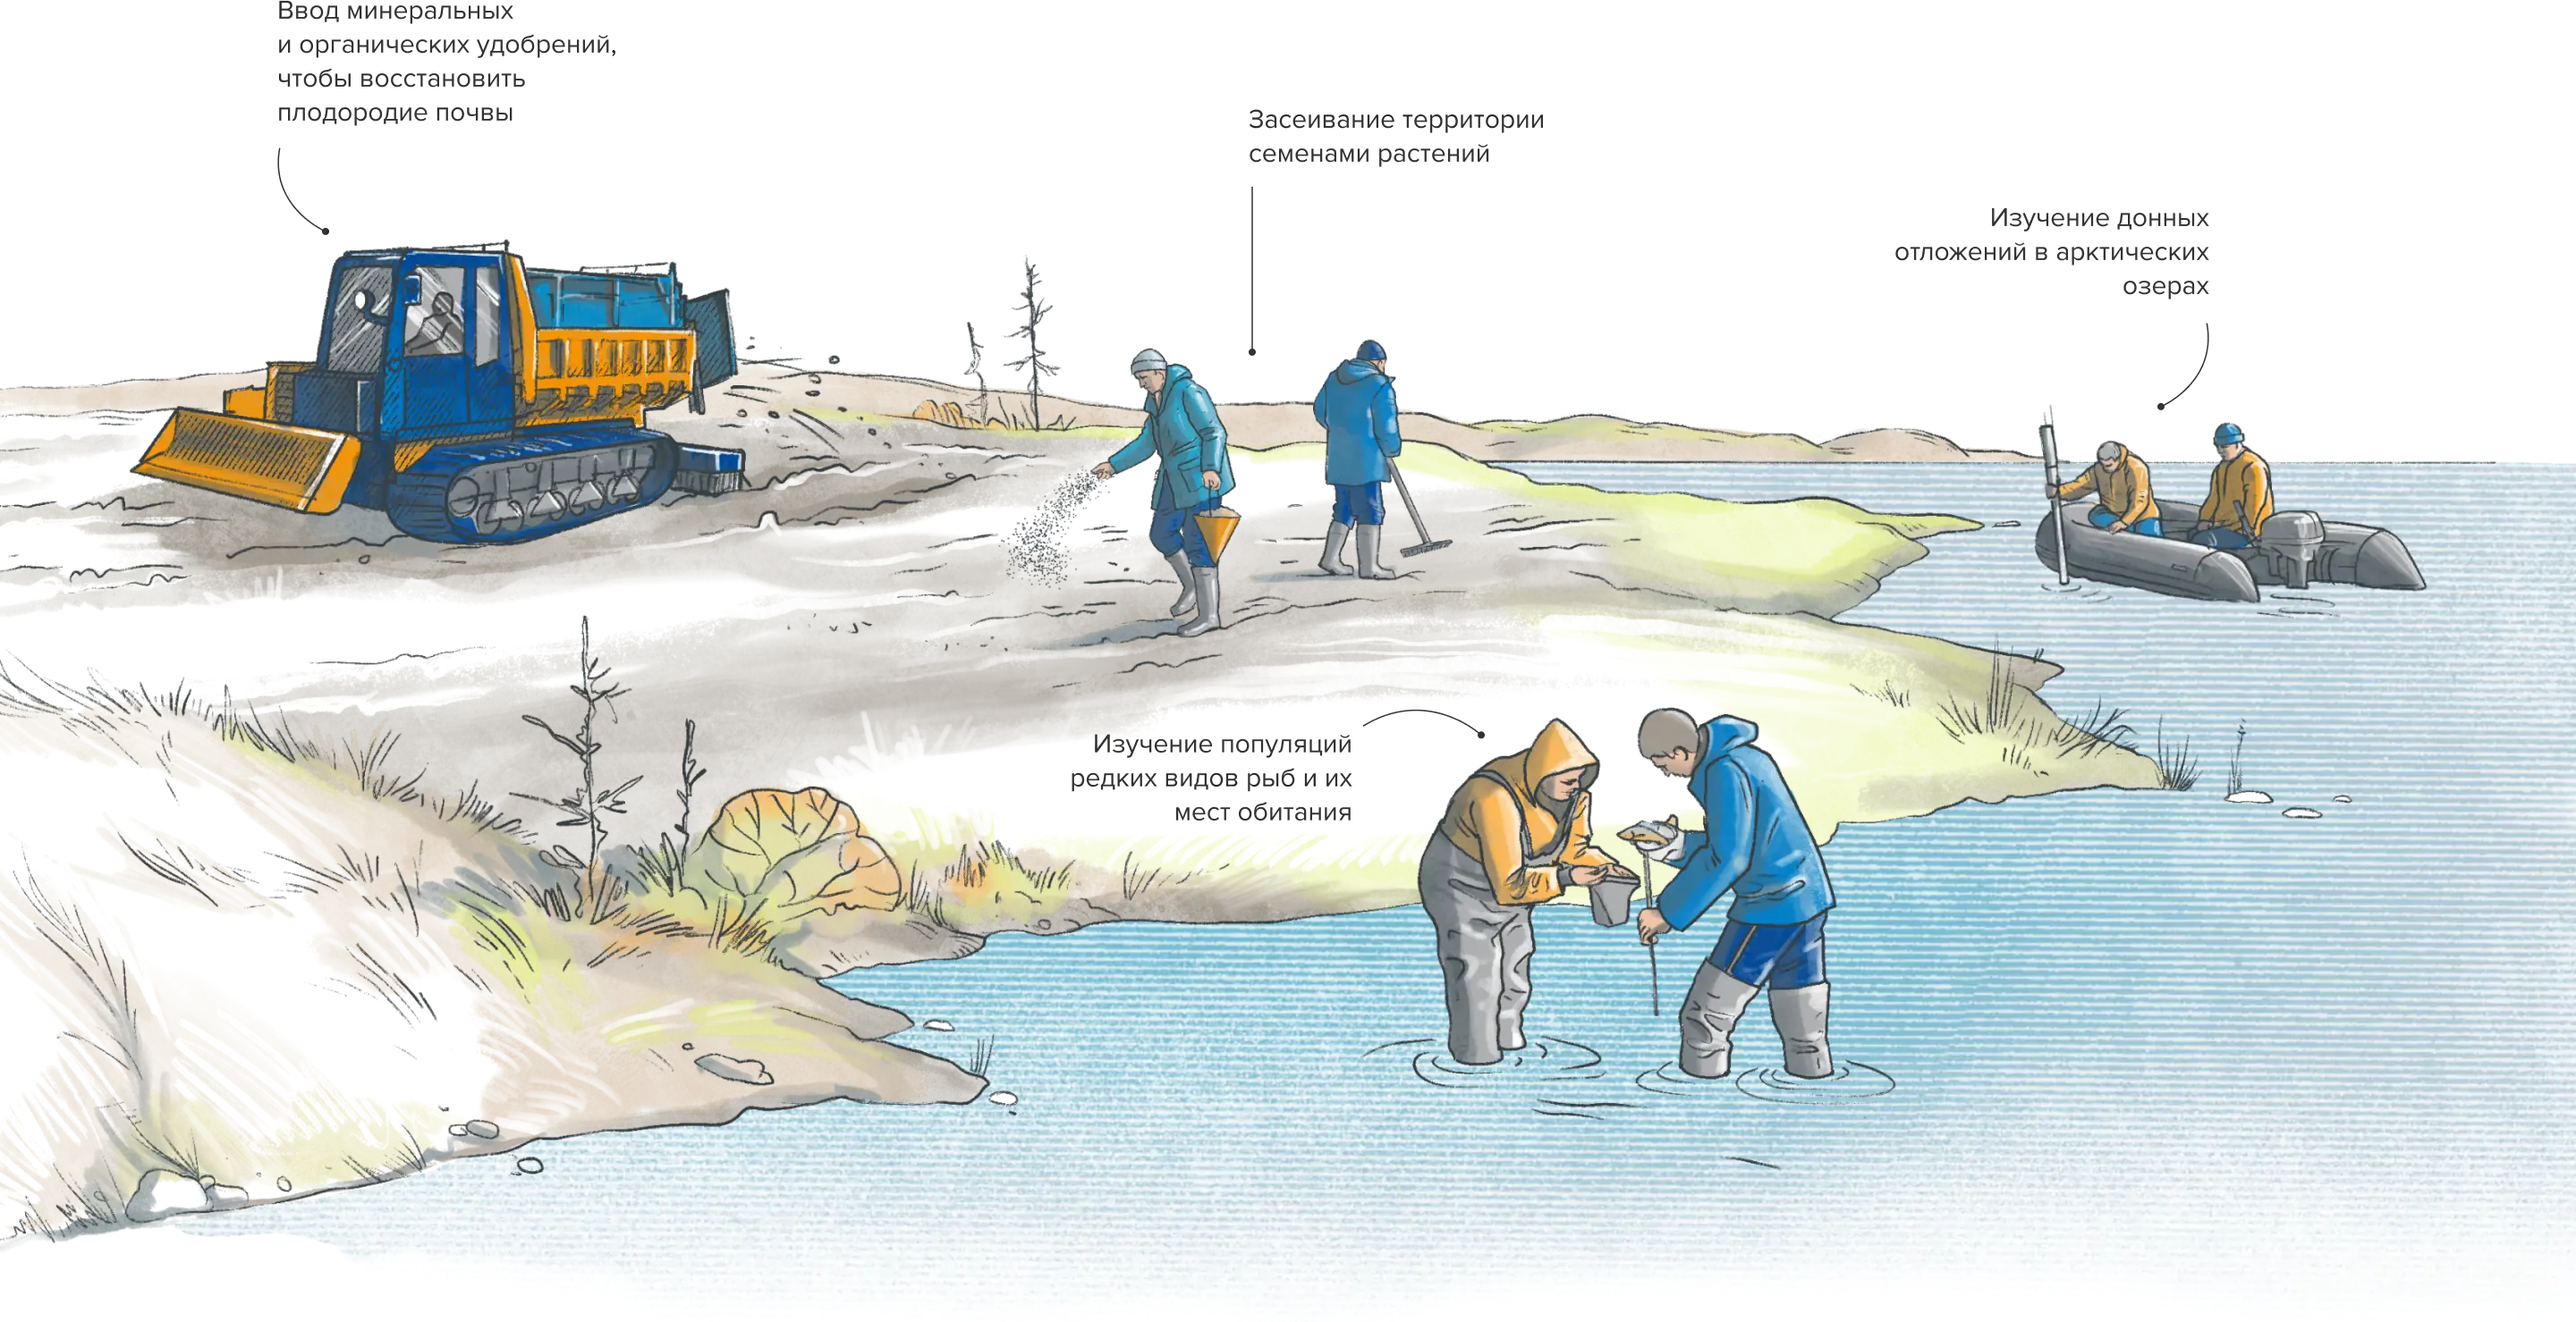
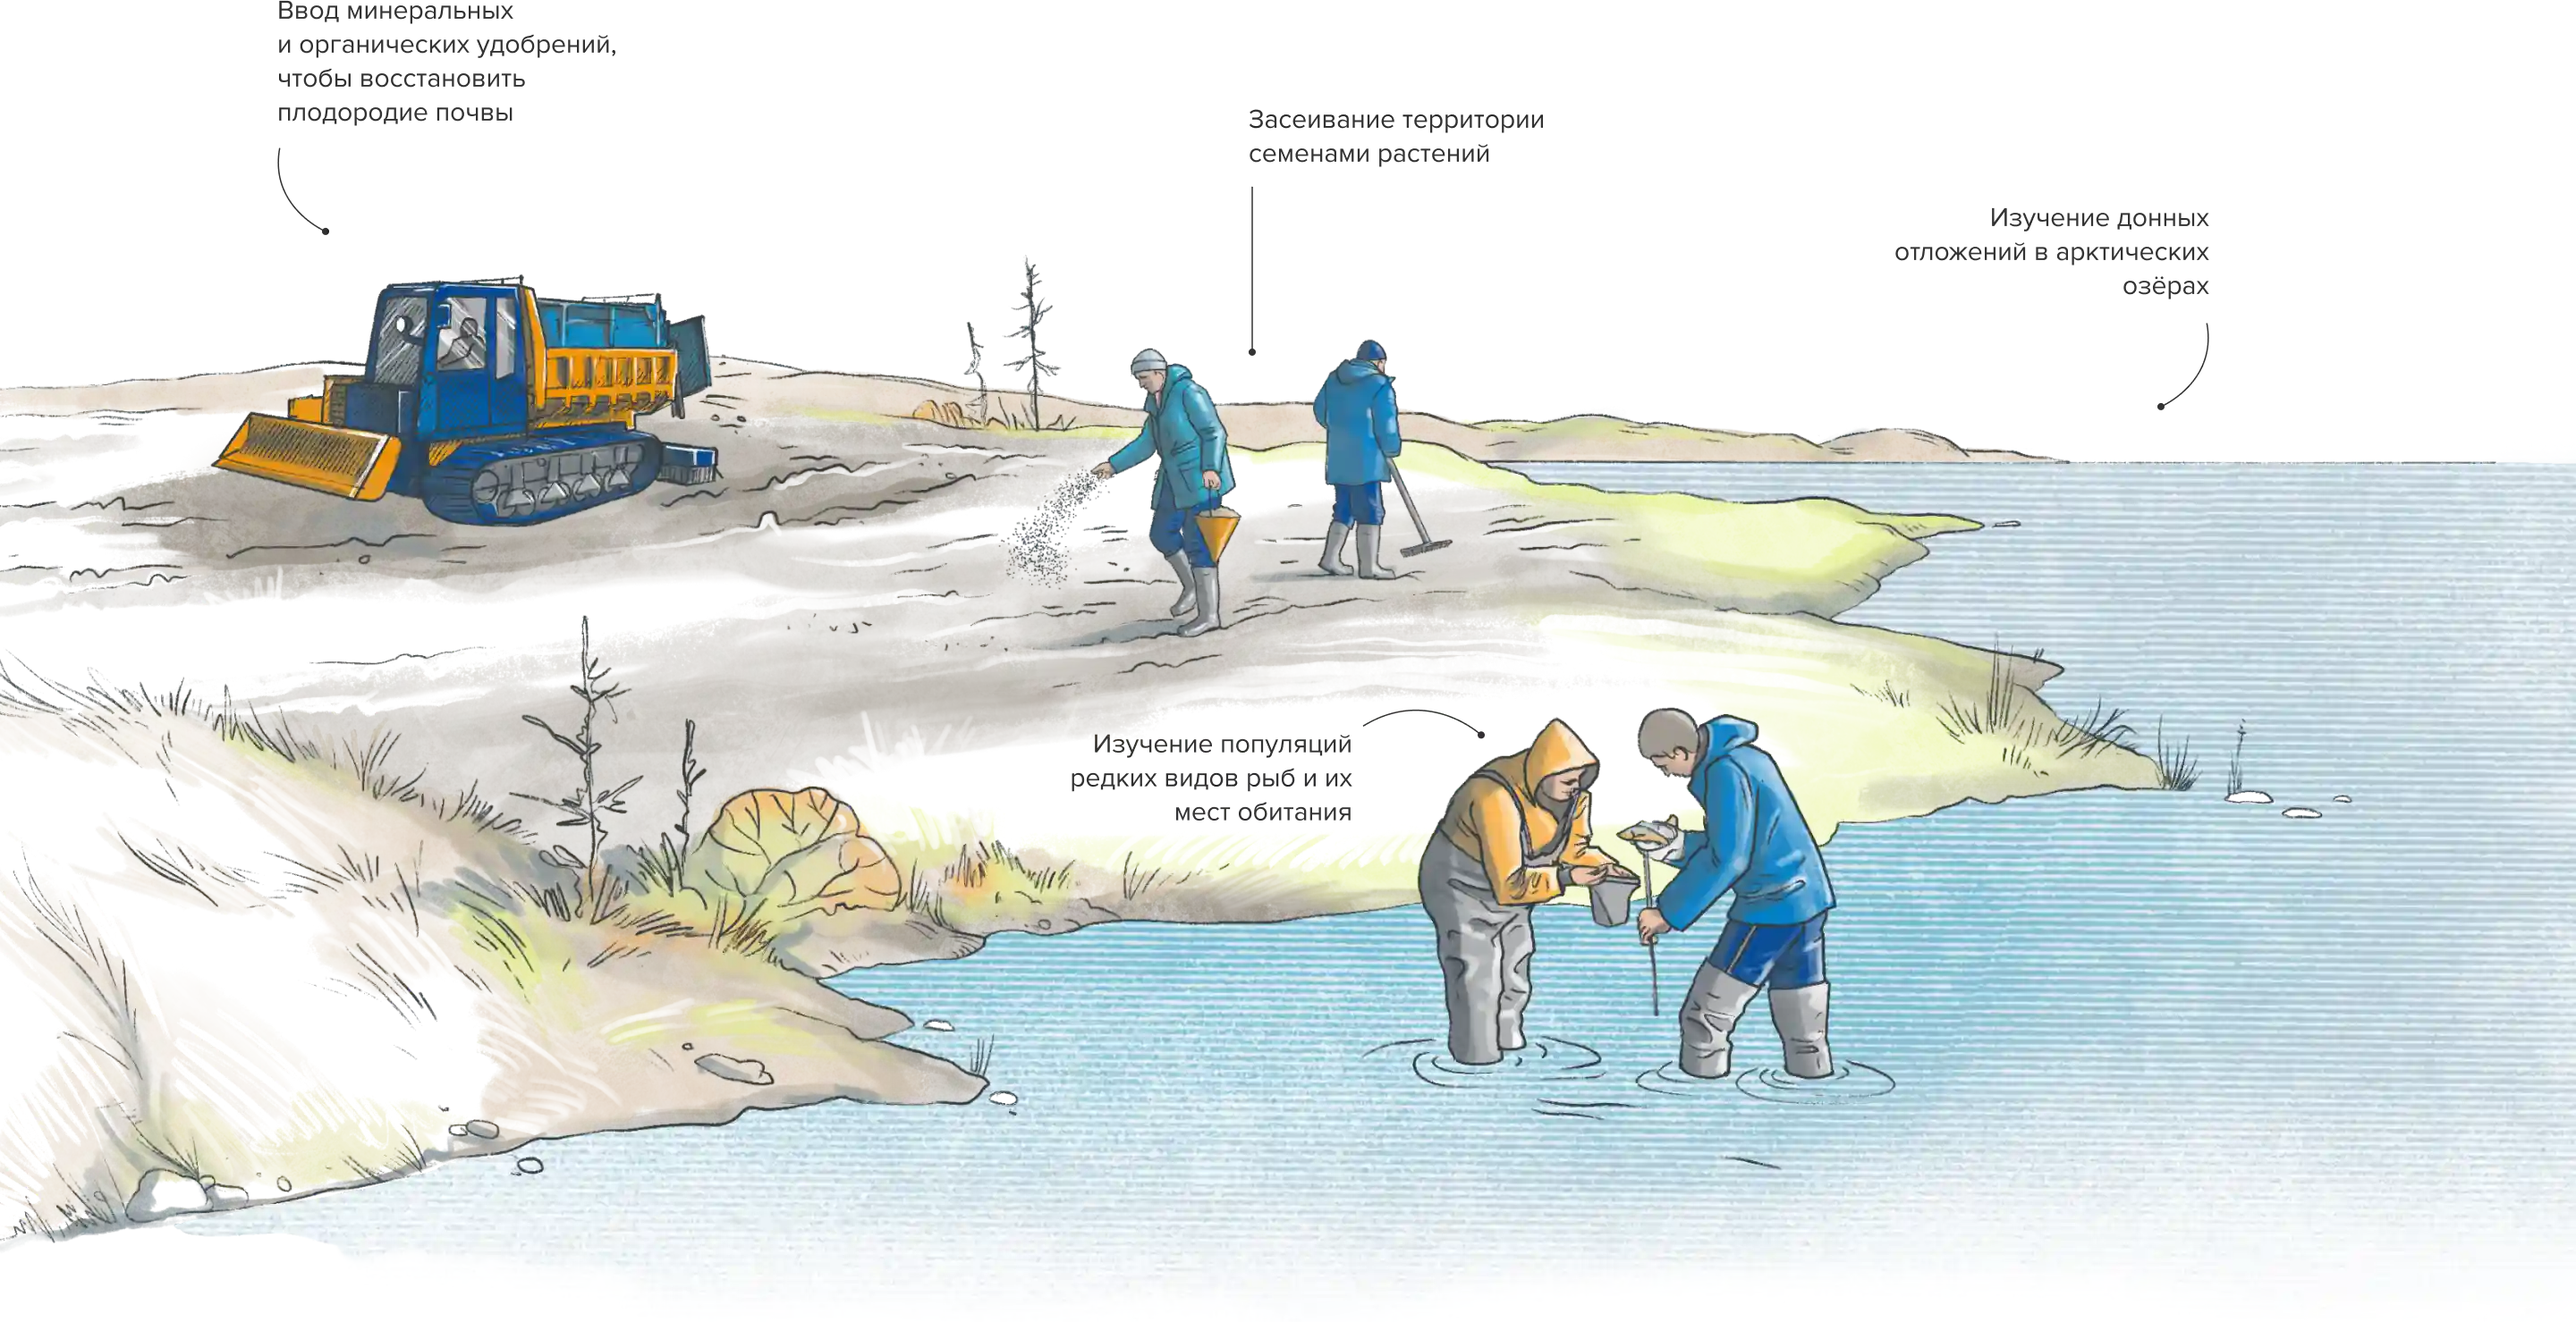
2page

diff --git a/src/pages/ExpeditionPage.vue b/src/pages/ExpeditionPage.vue
@@ -381,7 +381,12 @@
                         <source type="image/webp" srcset="img/step-3-scena.webp">
                         <img class="scena" src="img/step-3-scena.png" alt="">
                     </picture>
-
+                    <div class="scena-boat">
+                        <picture>
+                            <source type="image/webp" srcset="img/scena-boat.webp">
+                            <img class="scena" src="img/scena-boat.png" alt="">
+                        </picture>
+                    </div>
                 </div>
                 <BaseSidebar>
                     <p>
@@ -427,6 +432,7 @@ export default {
         this.$nextTick(function () {
             this.sidebarAnimation();
             this.textAnimation();
+            this.parallax()
         })
     },
     data() {
@@ -504,6 +510,37 @@ export default {
                         },
                     })
             })
+        },
+        parallax() {
+            if (window.innerWidth > 768) {
+                gsap.fromTo(".measurements-tool",
+                {y: 40},
+                {
+                    y: -10,
+                    scrollTrigger: {
+                        trigger: ".step-two__img-measurements",
+                        start: 'top 75%',
+                        end: '35%',
+                        // markers: true,
+                        scrub: true
+                    },
+
+                })
+
+                gsap.fromTo(".scena-boat",
+                {y: 40},
+                {
+                    y: 5,
+                    scrollTrigger: {
+                        trigger: ".scena__wrap",
+                        start: 'top 75%',
+                        end: '35%',
+                        // markers: true,
+                        scrub: true
+                    },
+
+                })
+            }
         }
     }
 }
@@ -941,8 +978,8 @@ export default {
 
             .measurements-tool {
                 position: absolute;
-                top: 0;
-                left: 0;
+                top: 11rem;
+                left: 33rem;
                 width: 14.0977rem;
                 height: 11.4588rem;
 
@@ -1012,10 +1049,28 @@ export default {
         }
 
         &__wrap {
+            position: relative;
             margin: 3.75rem 0 2.5rem 0;
 
             @media (max-width: 768px) {
                 margin: 13.3334rem 0 10.6666rem 0;
+            }
+
+            .scena-boat {
+                position: absolute;
+                top: 12rem;
+                left: 77rem;
+                width: 239px;
+                height: 147px;
+
+                img {
+                    width: 100%;
+                    height: 100%;
+                }
+
+                @media (max-width: 768px) {
+                    display: none;
+                }
             }
         }
     }
